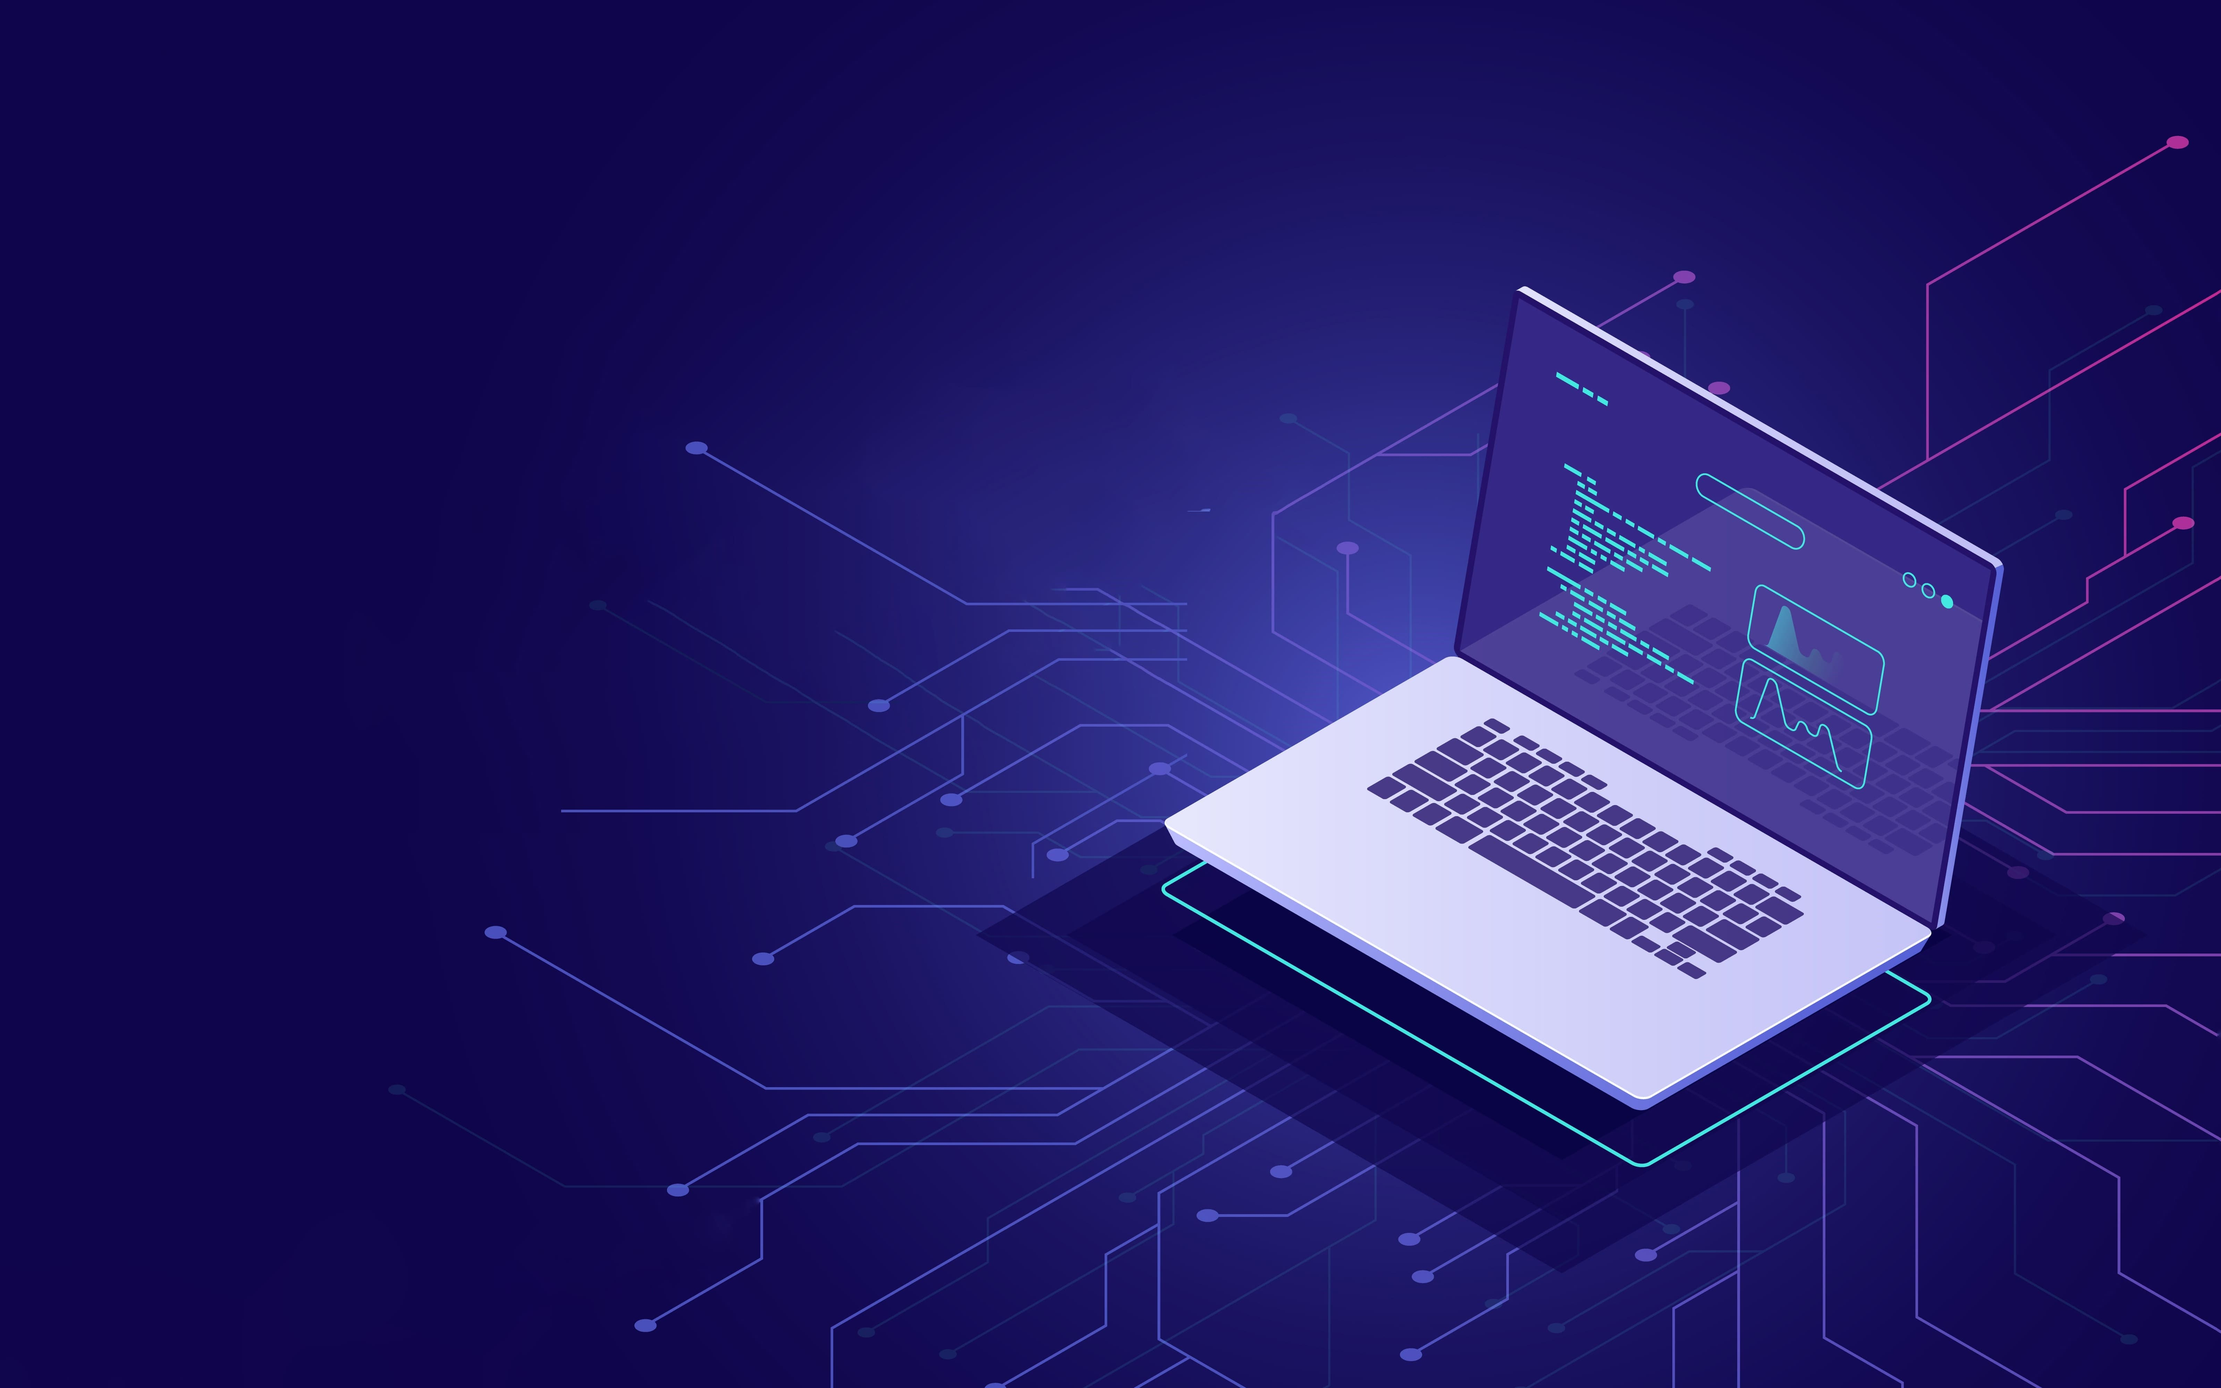
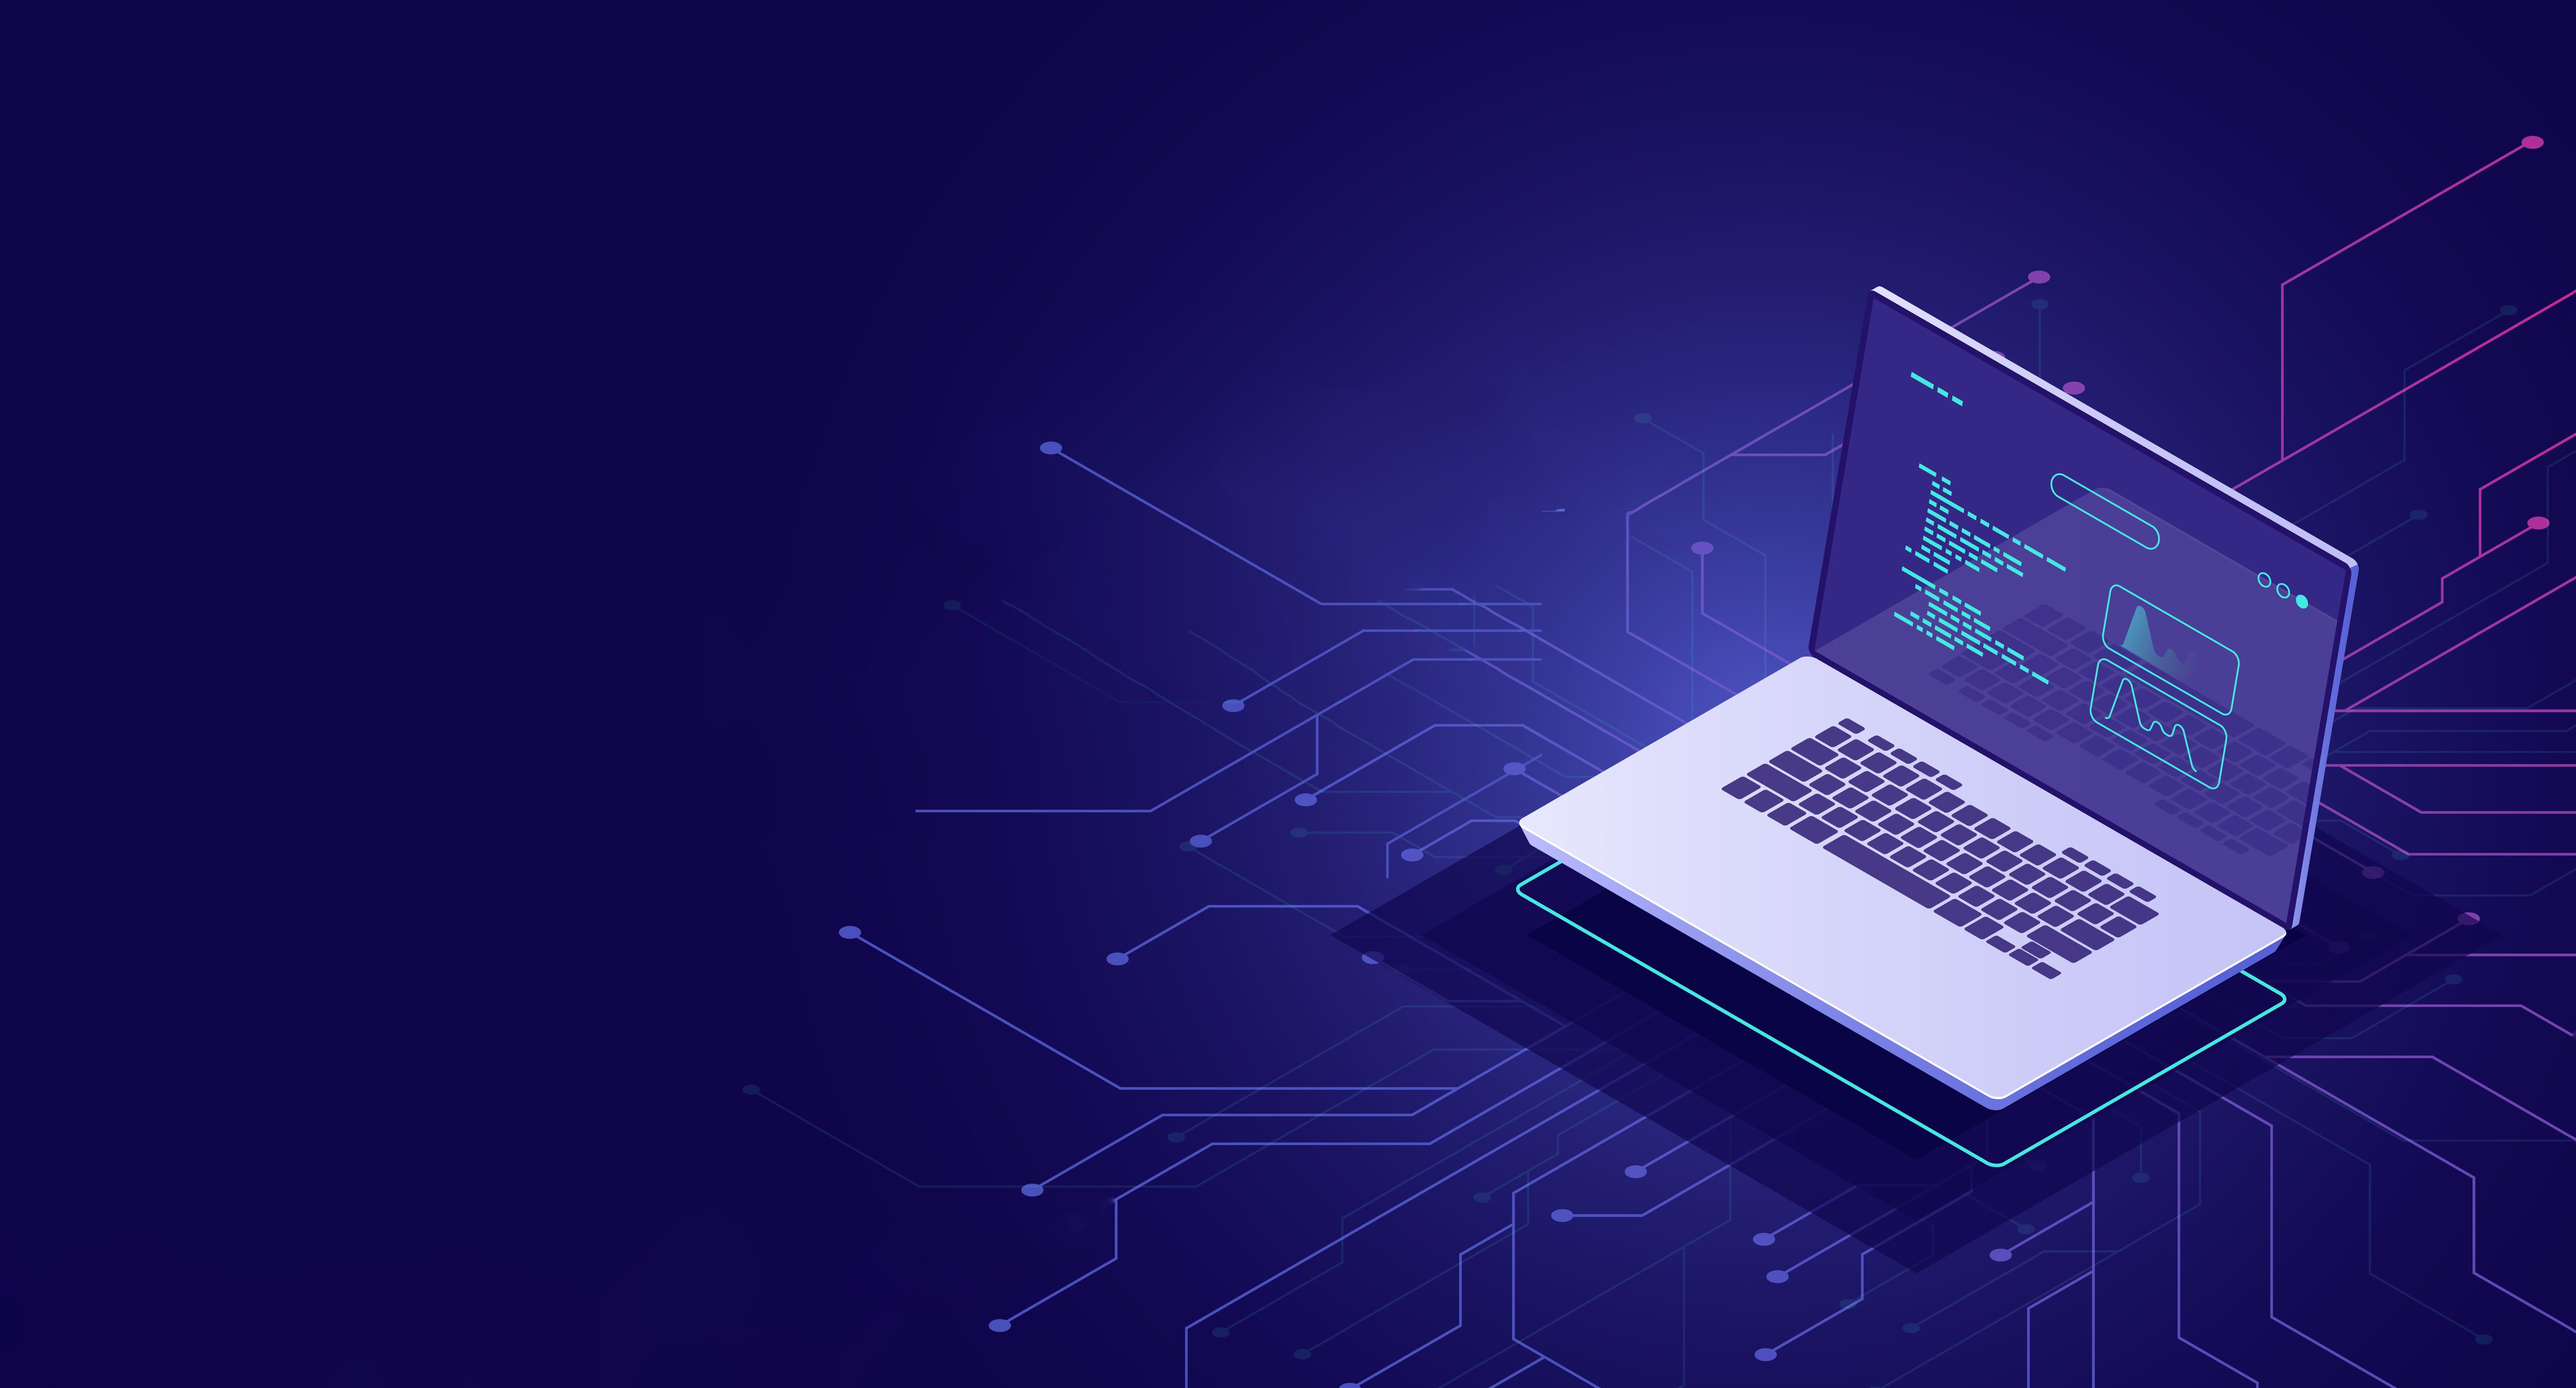
Added circuit section of hero bg Mobile View

diff --git a/css/dashcore.css b/css/dashcore.css
@@ -33642,7 +33642,7 @@ section.shadow,
   width: 100%;
   height: 100%;
   z-index: -1;
-  background-image: url("../img/screens/dash/laptop.jpg");
+  background-image: url("../img/screens/dash/laptop3.jpg");
   background-size: cover;
   background-repeat: no-repeat;
   background-position: center;
